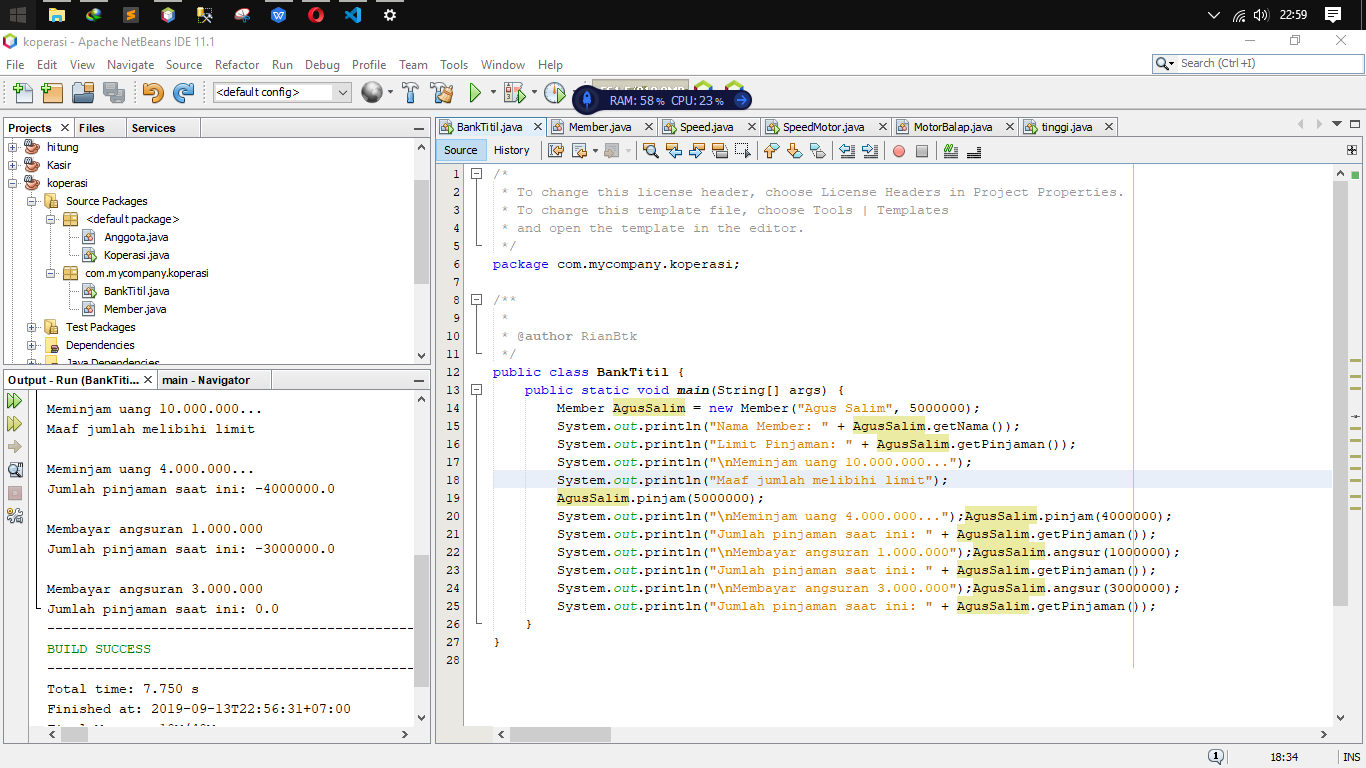
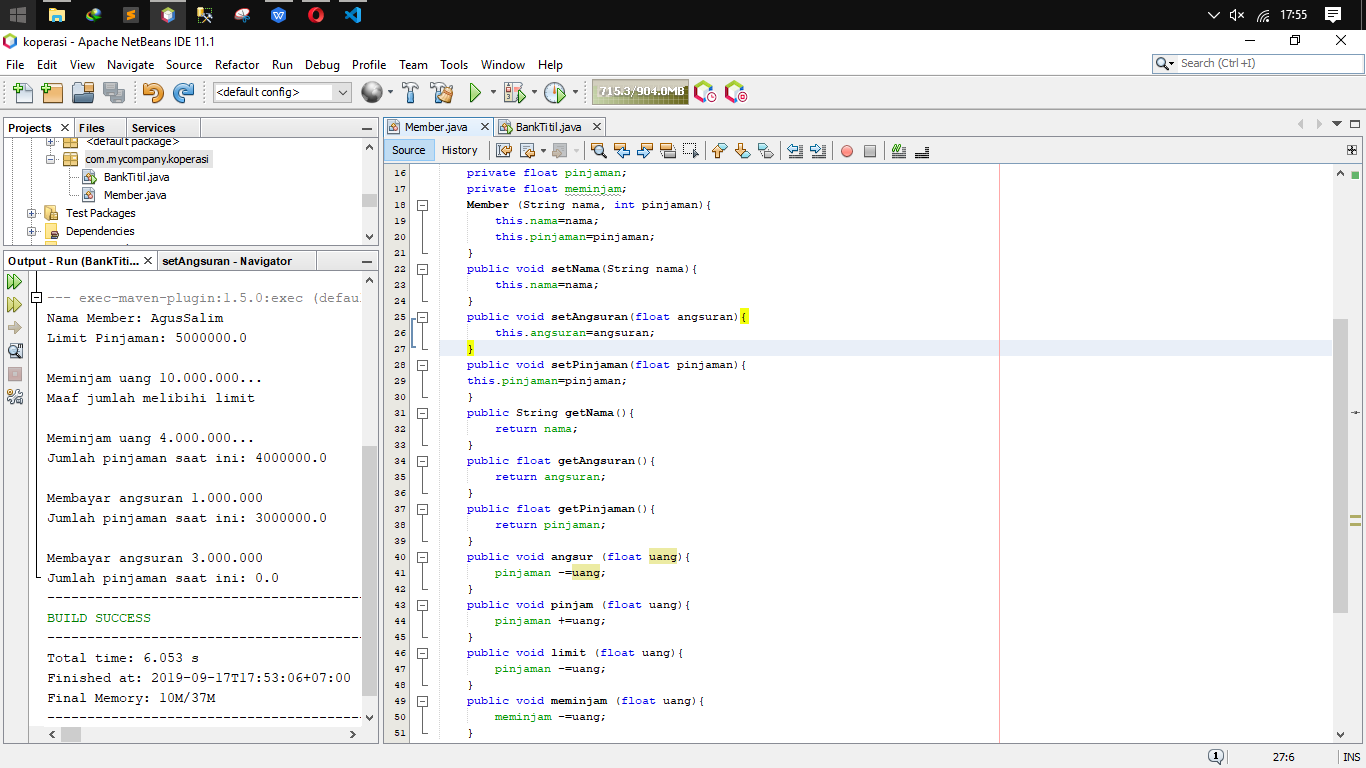
Soal No-4

diff --git a/src/3_Enkapsulasi/BankTitil.java b/src/3_Enkapsulasi/BankTitil.java
@@ -11,17 +11,22 @@ package com.mycompany.koperasi;
  */
 public class BankTitil {
     public static void main(String[] args) {
-        Member AgusSalim = new Member("Agus Salim", 5000000);
+        Member AgusSalim = new Member("AgusSalim",5000000);
         System.out.println("Nama Member: " + AgusSalim.getNama());
         System.out.println("Limit Pinjaman: " + AgusSalim.getPinjaman());
         System.out.println("\nMeminjam uang 10.000.000...");
+        AgusSalim.meminjam(10000000);
         System.out.println("Maaf jumlah melibihi limit");
-        AgusSalim.pinjam(5000000);
-        System.out.println("\nMeminjam uang 4.000.000...");AgusSalim.pinjam(4000000);
+        AgusSalim.limit(5000000);
+        System.out.println("\nMeminjam uang 4.000.000...");
+        AgusSalim.pinjam(4000000);
         System.out.println("Jumlah pinjaman saat ini: " + AgusSalim.getPinjaman());
-        System.out.println("\nMembayar angsuran 1.000.000");AgusSalim.angsur(1000000);
+        System.out.println("\nMembayar angsuran 1.000.000");
+        AgusSalim.angsur(1000000);
         System.out.println("Jumlah pinjaman saat ini: " + AgusSalim.getPinjaman());
-        System.out.println("\nMembayar angsuran 3.000.000");AgusSalim.angsur(3000000);
-        System.out.println("Jumlah pinjaman saat ini: " + AgusSalim.getPinjaman()); 
+        System.out.println("\nMembayar angsuran 3.000.000");
+        AgusSalim.angsur(3000000);
+        System.out.println("Jumlah pinjaman saat ini: " + AgusSalim.getPinjaman());
+        
     }
 }

diff --git a/src/3_Enkapsulasi/Member.java b/src/3_Enkapsulasi/Member.java
@@ -13,7 +13,8 @@ public class Member {
     private String nama;
     private int id;
     private float angsuran;
-    private float pinjaman;  
+    private float pinjaman;
+    private float meminjam;
     Member (String nama, int pinjaman){
         this.nama=nama;
         this.pinjaman=pinjaman;
@@ -25,7 +26,7 @@ public class Member {
         this.angsuran=angsuran;
     }
     public void setPinjaman(float pinjaman){
-    this.pinjaman=10000000;
+    this.pinjaman=pinjaman;
     }
     public String getNama(){
         return nama;
@@ -37,9 +38,15 @@ public class Member {
         return pinjaman;
     }
     public void angsur (float uang){
-        pinjaman +=uang;
+        pinjaman -=uang;
     }
     public void pinjam (float uang){
+        pinjaman +=uang;
+    }
+    public void limit (float uang){
         pinjaman -=uang;
+    }
+    public void meminjam (float uang){
+        meminjam -=uang;
     }
 }
